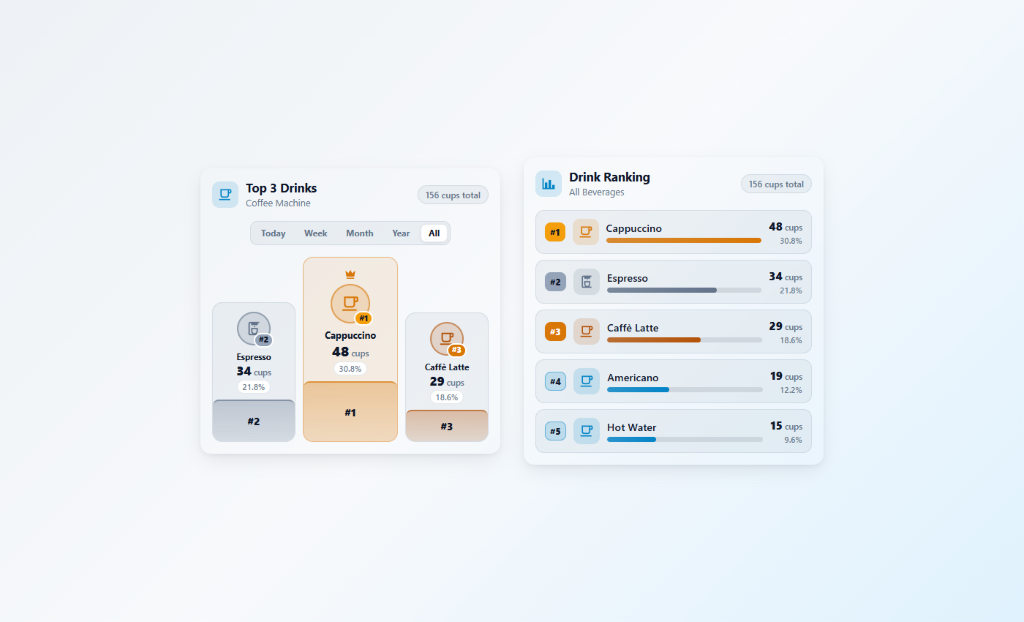
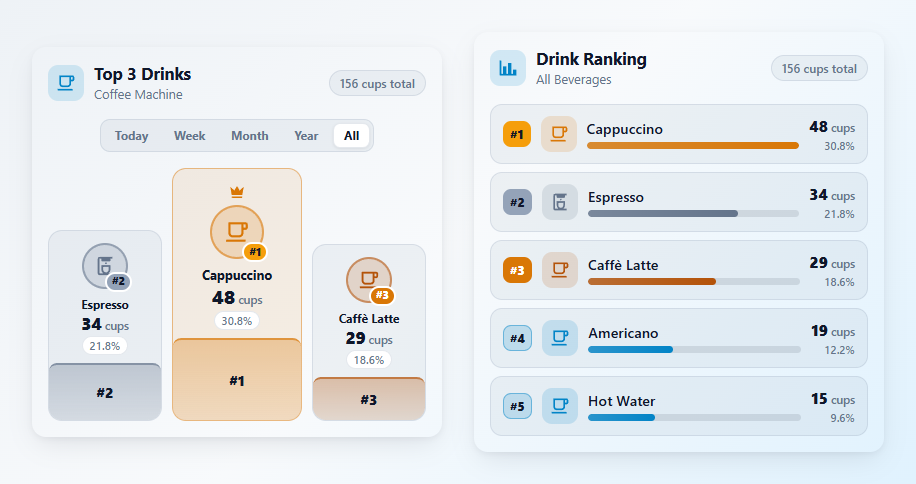
docs: crop showcase preview tightly around cards

diff --git a/index.html b/index.html
@@ -189,7 +189,7 @@
       .showcase-stage {
         display: none;
         inline-size: 100%;
-        max-inline-size: 900px;
+        max-inline-size: 852px;
         grid-template-columns: repeat(2, minmax(0, 410px));
         justify-content: center;
         gap: 32px;
